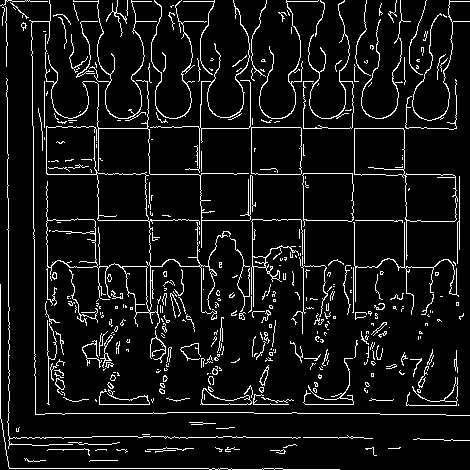
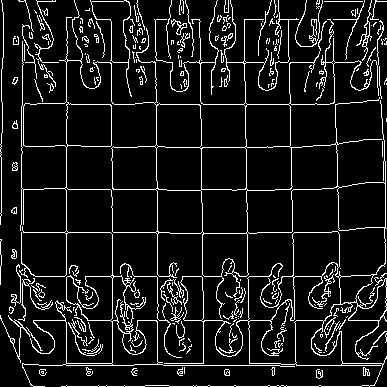
Added intersection points

Changed region(s): [[0.0, 0.0, 1.0, 1.0]]

diff --git a/a.py b/a.py
@@ -236,7 +236,7 @@ def make_lines(h_lines, v_lines, cdst):
 
 if __name__ == '__main__':
 
-  image_name = "ch3.jpg"
+  image_name = "chess_1.jfif"
   img = cv2.imread(image_name)
   # img = unsharp_mask(img, radius=5, amount)
 
@@ -355,6 +355,7 @@ if __name__ == '__main__':
   v_lines_final.append(square[2])
   # v_lines_final.append(v_lines[square[0]+1])
 
+  threshold = square[-1]*0.25
   counter = 0
   for j in range(X.shape[0] - square[0] - 1):
     counter += 1
@@ -367,7 +368,7 @@ if __name__ == '__main__':
       if x < m:
         m = x
         index = i
-    if m < 20:  
+    if m < threshold:  
       v_lines_final.append(v_lines[index])
 
   counter = 0
@@ -383,7 +384,7 @@ if __name__ == '__main__':
       if x < m:
         m = x
         index = i
-    if m < 20:
+    if m < threshold:
       v_lines_final.append(v_lines[index])
         
 
@@ -398,7 +399,7 @@ if __name__ == '__main__':
       if x < m:
         m = x
         index = i
-    if m < 20:
+    if m < threshold:
       h_lines_final.append(h_lines[index])
 
   counter = 0
@@ -411,16 +412,93 @@ if __name__ == '__main__':
       if x < m:
         m = x
         index = i
-    if m < 20:
+    if m < threshold:
       h_lines_final.append(h_lines[index])
 
   h_lines_final = np.array(h_lines_final)
   v_lines_final = np.array(v_lines_final)
-  print(v_lines_final)
-  print(h_lines_final)
 
   # edges = cv2.imread("edges.jpg", 0)
+  h_lines = h_lines_final[h_lines_final[:,0].argsort()]
+  v_lines = v_lines_final[v_lines_final[:,0].argsort()]
+
+  if h_lines.shape[0] > 9:
+    h_lines = h_lines[:9]
+
+  print(v_lines)
+  print(h_lines)
+
   make_lines(h_lines_final, v_lines_final, cd2)
+
+  pts = []
+  voting = []
+  for i in range(v_lines.shape[0]):
+    intersections = []
+    v = []
+    for j in range(h_lines.shape[0]):
+      A = np.zeros((2,2))
+      b = np.zeros(2)
+      A[0][0] = np.cos(v_lines[i][1] * np.pi/180)
+      A[0][1] = np.sin(v_lines[i][1] * np.pi/180)
+      A[1][0] = np.cos(h_lines[j][1] * np.pi/180)
+      A[1][1] = np.sin(h_lines[j][1] * np.pi/180)
+
+      b[0] = v_lines[i][2] * v_lines[i][0]
+      b[1] = h_lines[j][2] * h_lines[j][0]
+
+      x = np.linalg.solve(A, b)
+
+      if(i == 0 and j == 0):
+        pts.append(x)
+
+      if(i == 0 and j == h_lines.shape[0] - 1):
+        pts.append(x)
+        # pts.append((abs(x[0]), abs(x[1])))
+
+      if(i == v_lines.shape[0] - 1 and j == h_lines.shape[0] - 1):
+        pts.append(x)
+        # pts.append((abs(x[0]), abs(x[1])))
+
+      if(i == v_lines.shape[0] - 1 and j == 0):
+        pts.append(x)
+        # pts.append((abs(x[0]), abs(x[1])))
+
+  # pts[0], pts[2] = pts[2], pts[0]
+  # pts[3], pts[1] = pts[1], pts[3]
+
+  pts = np.array(pts)
+  # print(pts)
+
+  image = cv2.imread("warped.jpg")
+
+  warped, checkerboard_size = four_point_transform(image, pts)
+  warped = cv2.resize(warped, (checkerboard_size, checkerboard_size))
+  cv2.imwrite("warped.jpg", warped)
+  warped = cv2.cvtColor(warped, cv2.COLOR_BGR2GRAY)
+
+
+  X = []
+
+  for i in range(v_lines.shape[0]):
+    x_temp = []
+    for j in range(h_lines.shape[0]):
+      A = np.zeros((2,2))
+      b = np.zeros(2)
+      A[0][0] = np.cos(v_lines[i][1] * np.pi/180)
+      A[0][1] = np.sin(v_lines[i][1] * np.pi/180)
+      A[1][0] = np.cos(h_lines[j][1] * np.pi/180)
+      A[1][1] = np.sin(h_lines[j][1] * np.pi/180)
+
+      b[0] = v_lines[i][2] * v_lines[i][0]
+      b[1] = h_lines[j][2] * h_lines[j][0]
+
+      x = np.linalg.solve(A, b)
+      x_temp.append(x)
+
+    X.append(x_temp)
+
+  X = np.array(X)
+  print(X)
 
   # #     # print(x)
   #     if int(x[0]) not in intersections:
